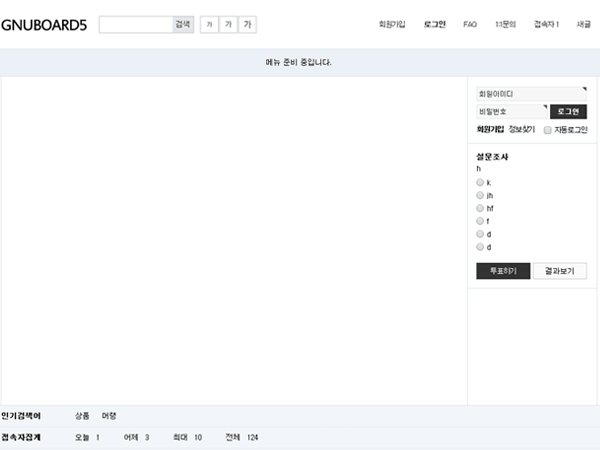
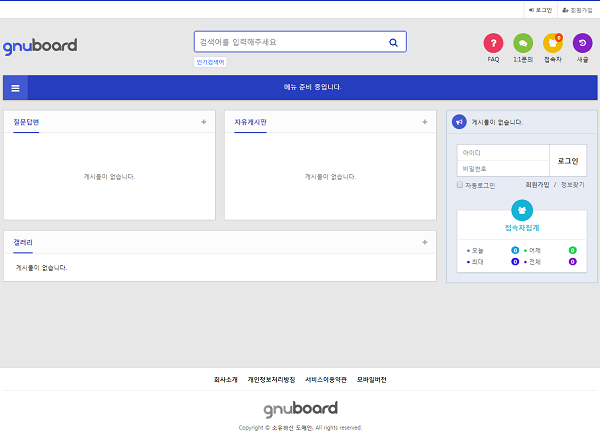
리뉴얼 잘못된 코드 수정

diff --git a/css/default.css b/css/default.css
@@ -140,7 +140,9 @@ transition: all 0.3s ease-out;}
 .gnb_2da:focus, .gnb_2da:hover {color:#fff}
 .gnb_1dli_over .gnb_2dul {display:block;left:0}
 .gnb_1dli_over2 .gnb_2dul {display:block;right:0;background:#fff}
-#gnb_empty {padding:10px 0;width:100%;text-align:center;line-height:2em;color:#fff}
+.gnb_wrap .gnb_empty {padding:10px 0;width:100%;text-align:center;line-height:2em;color:#fff}
+.gnb_wrap .gnb_empty a{color:#fff;text-decoration:underline}
+.gnb_wrap .gnb_al_ul .gnb_empty, .gnb_wrap .gnb_al_ul .gnb_empty a{color:#555}
 
 #gnb .gnb_menu_btn{background:#4158d1;color:#fff;width:50px;height:50px;border:0;vertical-align:top;font-size:18px}
 #gnb .gnb_close_btn{background:#4158d1;color:#fff;width:50px;height:50px;border:0;vertical-align:top;font-size:18px;position:absolute;top:-50px;left:0}

diff --git a/theme/basic/css/default.css b/theme/basic/css/default.css
@@ -140,7 +140,9 @@ transition: all 0.3s ease-out;}
 .gnb_2da:focus, .gnb_2da:hover {color:#fff}
 .gnb_1dli_over .gnb_2dul {display:block;left:0}
 .gnb_1dli_over2 .gnb_2dul {display:block;right:0;background:#fff}
-#gnb_empty {padding:10px 0;width:100%;text-align:center;line-height:2em;color:#fff}
+.gnb_wrap .gnb_empty {padding:10px 0;width:100%;text-align:center;line-height:2em;color:#fff}
+.gnb_wrap .gnb_empty a{color:#fff;text-decoration:underline}
+.gnb_wrap .gnb_al_ul .gnb_empty, .gnb_wrap .gnb_al_ul .gnb_empty a{color:#555}
 
 #gnb .gnb_menu_btn{background:#4158d1;color:#fff;width:50px;height:50px;border:0;vertical-align:top;font-size:18px}
 #gnb .gnb_close_btn{background:#4158d1;color:#fff;width:50px;height:50px;border:0;vertical-align:top;font-size:18px;position:absolute;top:-50px;left:0}

diff --git a/head.php b/head.php
@@ -165,7 +165,7 @@ include_once(G5_LIB_PATH.'/popular.lib.php');
                 }   //end foreach $row
 
                 if ($i == 0) {  ?>
-                    <li id="gnb_empty">메뉴 준비 중입니다.<?php if ($is_admin) { ?> <a href="<?php echo G5_ADMIN_URL; ?>/menu_list.php">관리자모드 &gt; 환경설정 &gt; 메뉴설정</a>에서 설정하실 수 있습니다.<?php } ?></li>
+                    <li class="gnb_empty">메뉴 준비 중입니다.<?php if ($is_admin) { ?> <a href="<?php echo G5_ADMIN_URL; ?>/menu_list.php">관리자모드 &gt; 환경설정 &gt; 메뉴설정</a>에서 설정하실 수 있습니다.<?php } ?></li>
                 <?php } ?>
             </ul>
             <div id="gnb_all">
@@ -198,7 +198,7 @@ include_once(G5_LIB_PATH.'/popular.lib.php');
                     }   //end foreach $row
 
                     if ($i == 0) {  ?>
-                        <li id="gnb_empty">메뉴 준비 중입니다.<?php if ($is_admin) { ?> <br><a href="<?php echo G5_ADMIN_URL; ?>/menu_list.php">관리자모드 &gt; 환경설정 &gt; 메뉴설정</a>에서 설정하실 수 있습니다.<?php } ?></li>
+                        <li class="gnb_empty">메뉴 준비 중입니다.<?php if ($is_admin) { ?> <br><a href="<?php echo G5_ADMIN_URL; ?>/menu_list.php">관리자모드 &gt; 환경설정 &gt; 메뉴설정</a>에서 설정하실 수 있습니다.<?php } ?></li>
                     <?php } ?>
                 </ul>
                 <button type="button" class="gnb_close_btn"><i class="fa fa-times" aria-hidden="true"></i></button>

diff --git a/theme/basic/head.php b/theme/basic/head.php
@@ -160,7 +160,7 @@ include_once(G5_LIB_PATH.'/popular.lib.php');
                 }   //end foreach $row
 
                 if ($i == 0) {  ?>
-                    <li id="gnb_empty">메뉴 준비 중입니다.<?php if ($is_admin) { ?> <a href="<?php echo G5_ADMIN_URL; ?>/menu_list.php">관리자모드 &gt; 환경설정 &gt; 메뉴설정</a>에서 설정하실 수 있습니다.<?php } ?></li>
+                    <li class="gnb_empty">메뉴 준비 중입니다.<?php if ($is_admin) { ?> <a href="<?php echo G5_ADMIN_URL; ?>/menu_list.php">관리자모드 &gt; 환경설정 &gt; 메뉴설정</a>에서 설정하실 수 있습니다.<?php } ?></li>
                 <?php } ?>
             </ul>
             <div id="gnb_all">
@@ -193,7 +193,7 @@ include_once(G5_LIB_PATH.'/popular.lib.php');
                     }   //end foreach $row
 
                     if ($i == 0) {  ?>
-                        <li id="gnb_empty">메뉴 준비 중입니다.<?php if ($is_admin) { ?> <br><a href="<?php echo G5_ADMIN_URL; ?>/menu_list.php">관리자모드 &gt; 환경설정 &gt; 메뉴설정</a>에서 설정하실 수 있습니다.<?php } ?></li>
+                        <li class="gnb_empty">메뉴 준비 중입니다.<?php if ($is_admin) { ?> <br><a href="<?php echo G5_ADMIN_URL; ?>/menu_list.php">관리자모드 &gt; 환경설정 &gt; 메뉴설정</a>에서 설정하실 수 있습니다.<?php } ?></li>
                     <?php } ?>
                 </ul>
                 <button type="button" class="gnb_close_btn"><i class="fa fa-times" aria-hidden="true"></i></button>

diff --git a/bbs/content.php b/bbs/content.php
@@ -67,7 +67,7 @@ $content_skin_url  = get_skin_url('content', $co['co_skin']);
 $skin_file = $content_skin_path.'/content.skin.php';
 
 if ($is_admin)
-    echo '<div class="ctt_admin"><a href="'.G5_ADMIN_URL.'/contentform.php?w=u&amp;co_id='.$co_id.'" class="btn_admin">내용 수정</a></div>';
+    echo '<div class="ctt_admin"><a href="'.G5_ADMIN_URL.'/contentform.php?w=u&amp;co_id='.$co_id.'" class="btn_admin btn">내용 수정</a></div>';
 ?>
 
 <?php

diff --git a/skin/latest/pic_basic/latest.skin.php b/skin/latest/pic_basic/latest.skin.php
@@ -18,7 +18,7 @@ $thumb_height = 150;
     if($thumb['src']) {
         $img = $thumb['src'];
     } else {
-        $img = $latest_skin_url.'/img/no_img.gif';
+        $img = G5_IMG_URL.'/no_img.png';
     }
     $img_content = '<img src="'.$img.'" alt="'.$thumb['alt'].'" width="'.$thumb_width.'" height="'.$thumb_height.'">';
     ?>
